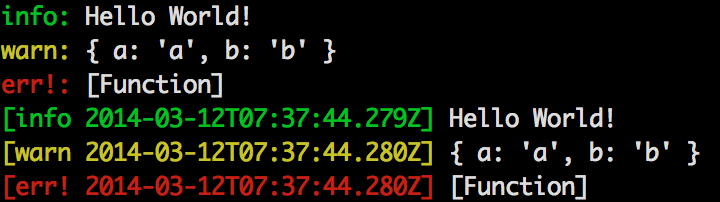
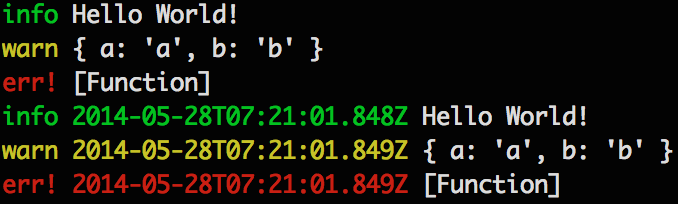
update the format expression and add numeric placeholder

Changed region(s): [[0.0, 0.6832, 0.9912, 1.0], [0.0, 0.1782, 0.8673, 0.6535], [0.0, 0.0, 0.3717, 0.1485]]

diff --git a/lib/logger.js b/lib/logger.js
@@ -80,24 +80,54 @@
     };
 
     Logger.prototype._log = function() {
-      var msg, raws;
+      var msg, msgs, raw;
       if (!this._format) {
         return false;
       }
-      msg = util.format.apply(util, arguments);
-      raws = msg.split('\n').map((function(_this) {
-        return function(msg) {
-          var raw;
-          raw = _this._format.replace(/\:level/g, _this._level).replace(/\:date/g, new Date().toISOString()).replace(/\:msg/g, msg);
-          if (_this._stream.isTTY) {
-            raw = raw.replace(/color\((.*?)\)/g, '$1'[_this._color]);
-          } else {
-            raw = raw.replace(/color\((.*?)\)/g, '$1');
+      if (arguments[0][0] === '%') {
+        msgs = [util.format.apply(util, arguments)];
+      } else {
+        msgs = ((function() {
+          var _i, _len, _results;
+          _results = [];
+          for (_i = 0, _len = arguments.length; _i < _len; _i++) {
+            msg = arguments[_i];
+            _results.push(msg);
           }
-          return raw;
+          return _results;
+        }).apply(this, arguments)).map(function(msg) {
+          return util.format.call(util, msg);
+        });
+      }
+      msg = msgs.join(' ');
+      raw = this._format.replace(/(\:[a-z0-9]+)(\.[a-z]+)?/ig, (function(_this) {
+        return function(meet, code, color) {
+          code = code.slice(1);
+          if (/[0-9]+/.test(code)) {
+            code = msgs[code] || '';
+          } else {
+            switch (code) {
+              case 'level':
+                code = _this._level;
+                break;
+              case 'date':
+                code = new Date().toISOString();
+                break;
+              case 'msg':
+                code = msg;
+            }
+          }
+          if ((color != null) && _this._stream.isTTY) {
+            color = color.slice(1);
+            if (color === 'color') {
+              color = _this._color;
+            }
+            code = code[color];
+          }
+          return code;
         };
       })(this));
-      return this._stream.write(raws.join('\n') + '\n');
+      return this._stream.write(raw + '\n');
     };
 
     Logger.prototype.info = function() {

diff --git a/lib/formats.js b/lib/formats.js
@@ -1,8 +1,8 @@
 // Generated by CoffeeScript 1.7.1
 (function() {
   module.exports = {
-    "default": 'color(:level:) :msg',
-    medium: 'color([:level :date]) :msg',
+    "default": ':level.color :msg',
+    medium: ':level.color :date.color :msg',
     mute: false
   };
 

diff --git a/README.md b/README.md
@@ -12,24 +12,55 @@ A simple, slim, graceful logger for Nodejs
 ```coffeescript
 logger = require('../lib')
 
-logger.info('this is a message', 'hello')
+logger.info('Hello', 'World!')
 logger.warn({a: 'a', b: 'b'})
-logger.err(require('path'))
+logger.err(-> "This is a function")
 
-# logger with options
-# Initial with format
-logger1 = new logger.Logger('color([:level :date]) - :msg')
-# Or use format method
-logger2 = require('graceful-logger').format('color([:level :date]) - :msg')
+logger.format('medium')
 
-logger1.info('this is a message')
-logger1.warn({a: 'a', b: 'b'})
-logger1.err('this is an error')
+logger.info('Hello', 'World!')
+logger.warn({a: 'a', b: 'b'})
+logger.err(-> "This is a function")
+
+# Other features
+## Output multi lines
+logger.info '''
+This is a multi line message:
+Hello everyone.
+Have a nice day!
+'''
+
+## Output required package
+logger.info require('path')
+
+## Output empty message
+logger.info()
+
+## Define any colors
+logger.format ':level.blue :msg.grey'
+logger.info('hello world')
+
+## Use the numeric placeholder
+logger.format ':level :0.grey :1.blue'
+logger.info('hello', 'world')
+```
+
+# Benchmark
+```
+Console x 5,367 ops/sec ±2.96% (89 runs sampled)  # console.log
+Log x 5,556 ops/sec ±1.76% (93 runs sampled)      # The tiny log module written by tj
+Logger x 5,612 ops/sec ±0.95% (96 runs sampled)   # This module
+Fastest is Logger,Log,Console
 ```
 
 # ChangeLog
+## 0.4.0
+1. Remove multi-line prefix (v0.3.1) for the sake of efficiency
+2. User can define any color of the message by `.(color)` format, but it only works after the `:(label)` expression, e.g. `:level.green :msg.grey`
+3. The `:msg` flag now support numbers for express the message of the correct index, e.g. `:1.green :2.grey`, and you will get an  green 'hello' and a grey 'world' by using `logger.info('hello', 'world')`. Remember, the index start from 0.
+
 ## 0.3.2
-1. user can redefine `color` and `level` prefix by set the `color` and `level` property of each method.
+1. User can redefine `color` and `level` prefix by set the `color` and `level` property of each method.
 
 ## 0.3.1
 1. Add prefix to each line when messages have multi lines.
